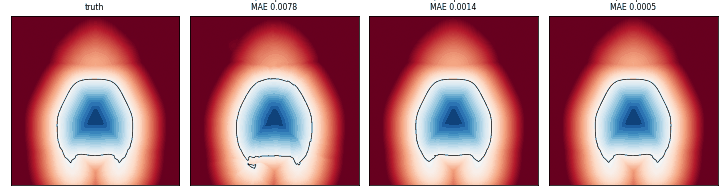
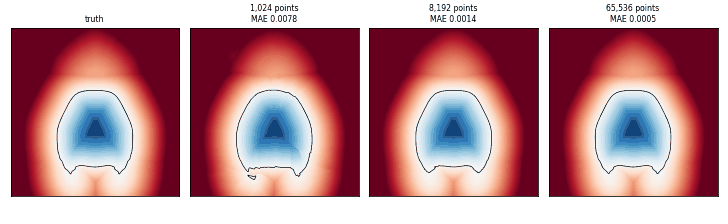
points-as-tori WP14: Fig. 29 at 7.3M points (interior degradation reproduced, radius saturation), recommendations
Claude-Session: https://claude.ai/code/session_01HfC8PYzTC4ZDaKa7kPeCpU

Changed region(s): [[0.0, 0.398, 0.9973, 0.949], [0.0, 0.0, 0.9973, 0.2449], [0.544, 0.5816, 0.5742, 0.6122]]

diff --git a/crates/ddg-points-as-tori/scripts/pat_eval_report.py b/crates/ddg-points-as-tori/scripts/pat_eval_report.py
@@ -370,7 +370,7 @@ def figures(cases, out, data, cont):
         d = json.load(open(p))
         sl = np.load(os.path.join(os.path.dirname(p), 'slices.npy'))
         k = sl.shape[0]
-        fig, axs = plt.subplots(1, k, figsize=(2.6 * k, 2.8))
+        fig, axs = plt.subplots(1, k, figsize=(2.6 * k, 3.2))
         ax1 = np.linspace(-1, 1, sl.shape[1])
         for i in range(k):
             ax = axs[i]

diff --git a/crates/ddg-points-as-tori/EVALUATION.md b/crates/ddg-points-as-tori/EVALUATION.md
@@ -11,11 +11,16 @@ were active, and from the middle of the run our own jobs were capped at 24–32 
 Timings therefore carry that load. Accuracy numbers do not depend on it, because every pipeline is
 deterministic.
 
-**Status.** Complete: the 315-shape accuracy run (all methods), the sign-rule study, the §16.3
-sweep, the black-box comparison (`COMPARISON.md`), the continuity study (32 clouds) and Fig. 7.
-Complete as well: orientation (41 clouds). Partial: Fig. 29 (110k and 880k points; 7.3M is
-running). These sections say what they cover and
-will be extended. Everything is reproducible with `scripts/pat_eval.sh`.
+**Status.** Complete:
+- the 315-shape accuracy run (all methods);
+- the sign-rule study and the §16.3 sweep;
+- the black-box comparison (`COMPARISON.md`);
+- the continuity study (32 clouds);
+- orientation (41 clouds);
+- Fig. 7, and Fig. 29 at 110k, 880k and 7.3M points (29M not run).
+
+Not done: the GPU TF32 study (GPU busy) and the retrained rows (no weights yet). Everything is
+reproducible with `scripts/pat_eval.sh`.
 
 ## Recommendations for the user
 
@@ -51,6 +56,16 @@ These are recommendations only; no crate default was changed.
    (22 vs 11). GWN-sign + distance is nearest-point distance, so its zero set is a union of small
    spheres, useless for contouring. The grid mean alone favors it because most grid points are far
    from the surface.
+
+5. **Two limits to state in the documentation (not defaults).**
+   - *Dense clouds break the interior.* Above about 1M points the interior gets spurious surfaces
+     (GOYLE at 7.3M: 3,341 zero-level components, interior MAE 0.042). The predicted torus radius
+     saturates near 20σ, so the tori shrink with density.
+   - *Orientation (Fig. 27) fails on CAD shapes.* It works on smooth shapes, but 4 of 10 ABC and
+     6 of 10 Thingi10K clouds end with more than 30 % wrong normals.
+
+   Both come from the released network's near-spherical, density-blind tori. Both are worth
+   re-measuring with WP10's retrained weights.
 
 ## Protocol
 
@@ -444,21 +459,39 @@ paper says, and faster here: spot is smooth.
 
 ![spot slices](../../showcase/points-as-tori/eval/density-fig7-spot.png)
 
-**Fig. 29 analogue** (partial). The densest usable mesh is Thingi10K 59340, "GOYLE" by fong182
+**Fig. 29 analogue.** The densest usable mesh is Thingi10K 59340, "GOYLE" by fong182
 (CC BY-SA; 786,432 faces, closed, one component, 0 self-intersections). David is not available.
-128³ grid; marching cubes at 256³:
+Same protocol, 128³ grid; marching cubes at 256³ (OBJ files in
+`runs_tmp/pat-wp14/density-fig29-thingi59340/`):
 
-| points | grid MAE | band | interior | exterior | interior / exterior |
-|---|---|---|---|---|---|
-| 110,000 | 0.00092 | 0.00033 | 0.00355 | 0.00021 | 17× |
-| 880,000 | 0.00051 | 0.00008 | 0.00222 | 0.00006 | 37× |
-| 7,300,000 | *running (about 3 h at 12 threads)* | | | | |
+| points | grid MAE | band | interior (φ_true < −0.05) | exterior | eikonality | wrong sign | median σ | |r|/σ median (p10) | zero-level components (truth 1) | build (12 threads, loaded) |
+|---|---|---|---|---|---|---|---|---|---|---|
+| 110,000 | 0.00092 | 0.00033 | 0.00355 | 0.00021 | 0.038 | 0.12 % | 0.036 | 15.6 (6.0) | 47 | 123 s |
+| 880,000 | 0.00051 | 0.00008 | 0.00222 | 0.00006 | 0.022 | 0.01 % | 0.013 | 19.8 (13.0) | 112 | 1,266 s |
+| 7,300,000 | **0.00878** | 0.00005 | **0.04235** | 0.00002 | 0.125 | 0.31 % | 0.0045 | 21.4 (17.0) | **3,341** | 5,375 s |
 
-The paper's observation is reproduced in relative terms: the interior error is an order of magnitude
-above the exterior error, and the ratio grows with density. In absolute terms the interior still
-improves from 110k to 880k. Whether it gets worse at 7.3M (the paper's "paradoxically worse") is what
-the running job will show. 29M points was not attempted (about 4 h of CPU network time under the
-current cap; WP16 or GPU).
+![GOYLE slices](../../showcase/points-as-tori/eval/density-fig29-thingi59340.png)
+
+**The paper's Fig. 29 effect is reproduced, and strongly.** From 880k to 7.3M points:
+- near the surface and outside, accuracy keeps improving (band 8e-5 → 5e-5, exterior 6e-5 → 2e-5);
+- the interior error grows 19× (0.0022 → 0.042), and the grid MAE 17×;
+- the zero level set gains thousands of small interior components (3,341; Euler characteristic
+  5,854, i.e. mostly spheres). The 7.3M slice shows them as black specks inside the statue.
+
+The paper's hypothesis ("the network can sometimes simply fit compact tori") is confirmed, with a
+mechanism. The predicted minor radius saturates at about 20σ_i: the median |r|/σ is 15.6, 19.8 and
+21.4 while σ shrinks 8×. So the absolute radius shrinks with density (≈ 0.56, 0.25, 0.095), while the
+true curvature radius of the statue does not change. Each torus is a near-sphere (see "Sign rule").
+Its SDF turns positive at depth greater than about 2|r| below its point. An interior query deeper
+than about 0.2 at 7.3M points therefore gets positive values from the nearest tori: a wrong sign and
+spurious inner surfaces. On spot (smooth, larger features relative to σ) |r|/σ is still 2–14 at
+≤ 65,536 points and nothing breaks. The network sees neighborhoods normalized by σ, and it was
+trained on 2048-point clouds, where |r|/σ ≲ 20 covers almost every surface. Possible remedies, none
+of them evaluated here: subsampling for the far field, `All` with a smaller C for deep queries, or
+training on varying densities (the paper's own suggestion).
+
+29M points (the paper's last column) was not run: about 6 h of CPU network time at the 24-thread
+cap. The trend is already clear at 7.3M.
 
 ## GPU TF32 vs Split3 (WP4 resolution 1)
 

diff --git a/crates/ddg-points-as-tori/NOTES-WP14.md b/crates/ddg-points-as-tori/NOTES-WP14.md
@@ -62,6 +62,6 @@ Work directory (gitignored): `runs_tmp/pat-wp14/` (`cases/<dataset>/<case>/` wit
   `eval gpu <case-dir>... --threads 8` (writes `<case>/gpu.json`). For WP16.
 - Retrained rows: `RETRAINED="--retrained retrained=data/points-as-tori/retrained-<name>.safetensors" scripts/pat_eval.sh case report`
   (append `:geometric` to the path for weights trained with `SignRule::Geometric`).
-- Fig. 29 stops at 7.3M points (29M needs ~4 h of CPU network time on a shared machine).
+- Fig. 29 stops at 7.3M points (29M needs ~6 h of CPU network time at the 24-thread cap). The effect is reproduced at 7.3M (interior MAE 0.042, 3,341 spurious components; predicted |r| saturates at ≈ 20σ).
 - `DATASETS.md` (repo root, not WP14's file) should credit the Thingi10K models named in EVALUATION.md;
   EVALUATION.md has the credit table.
